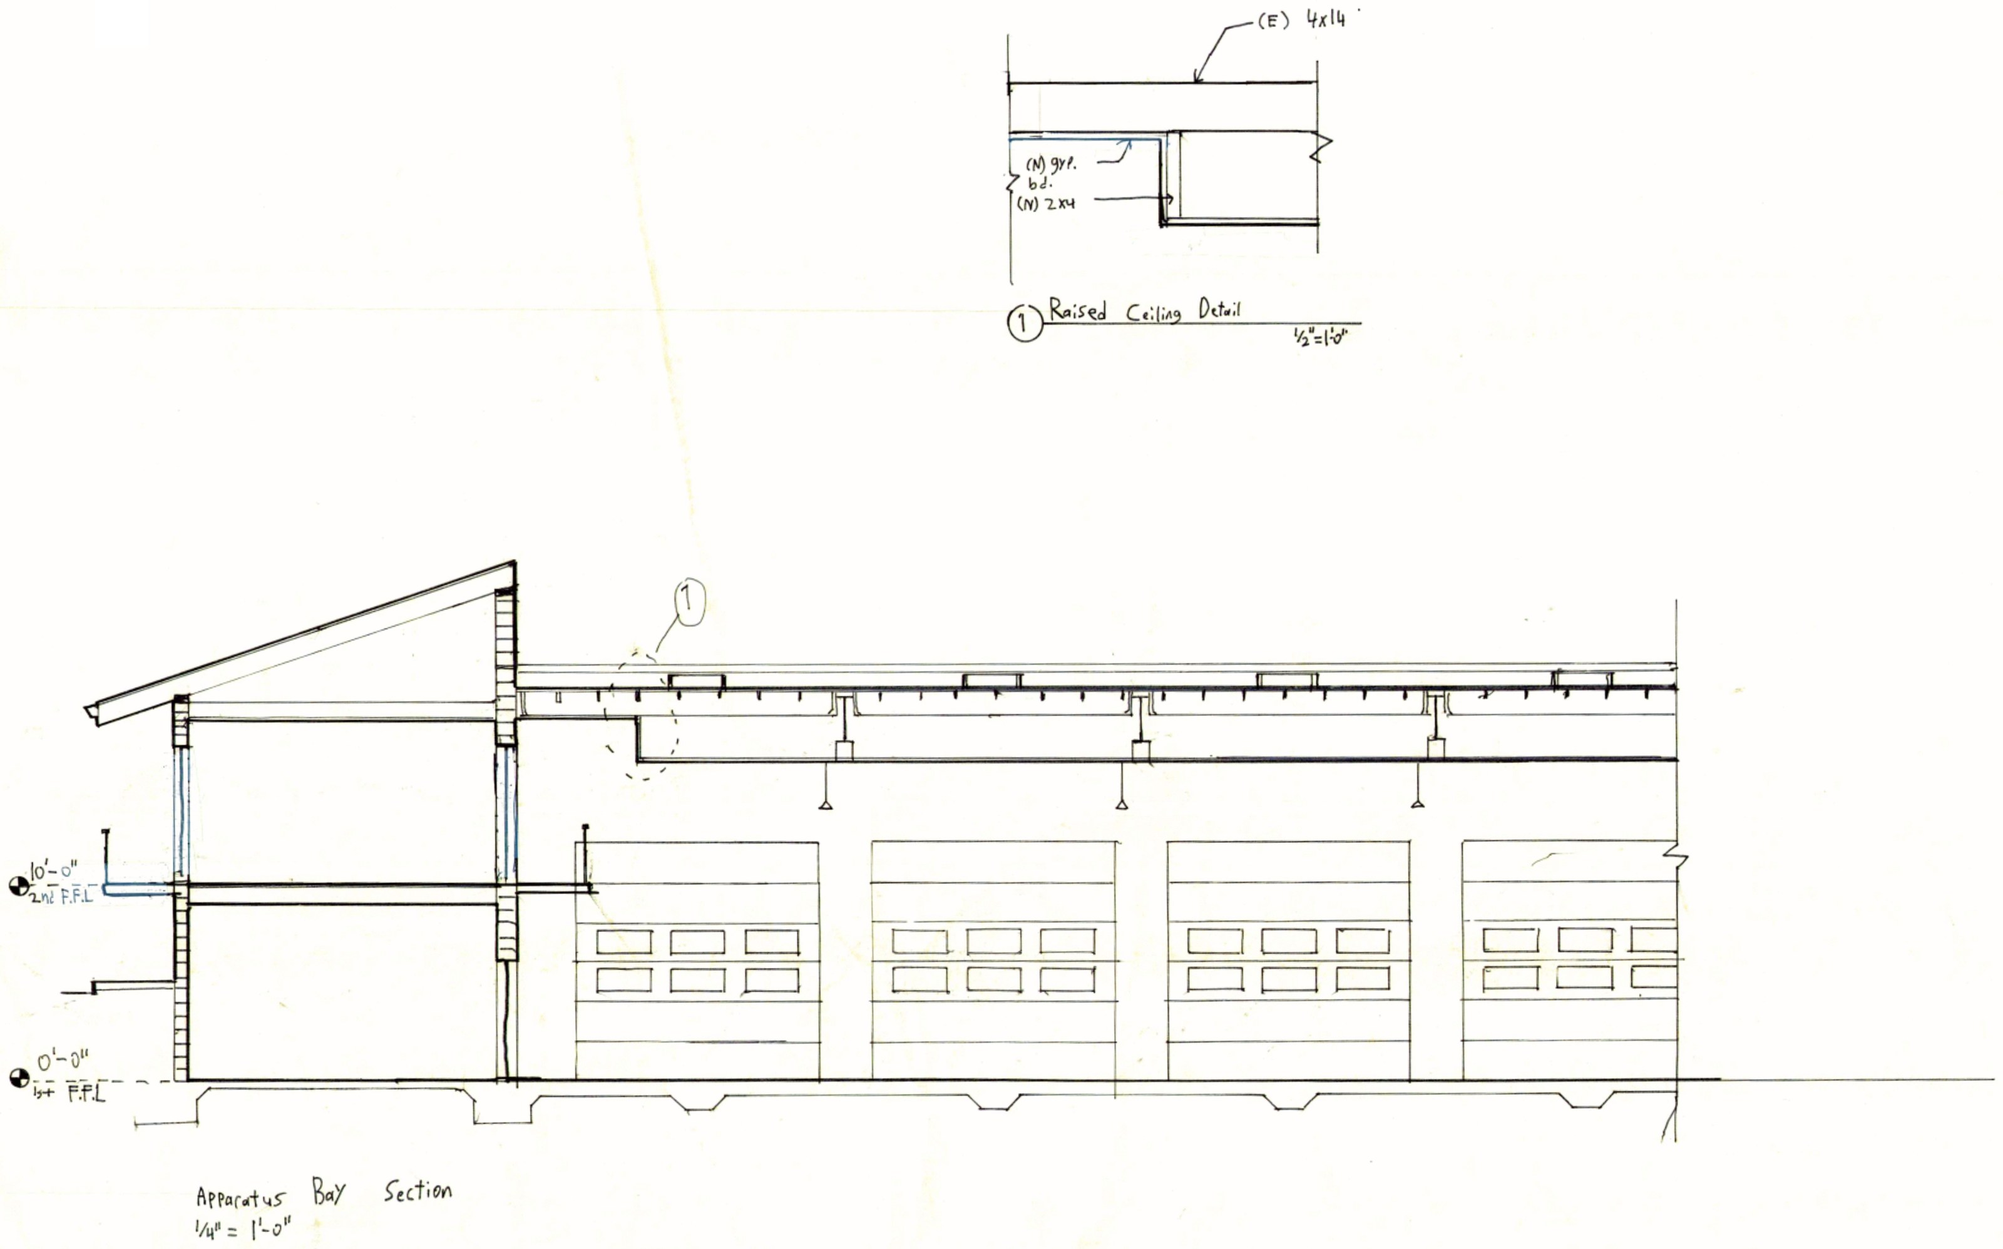
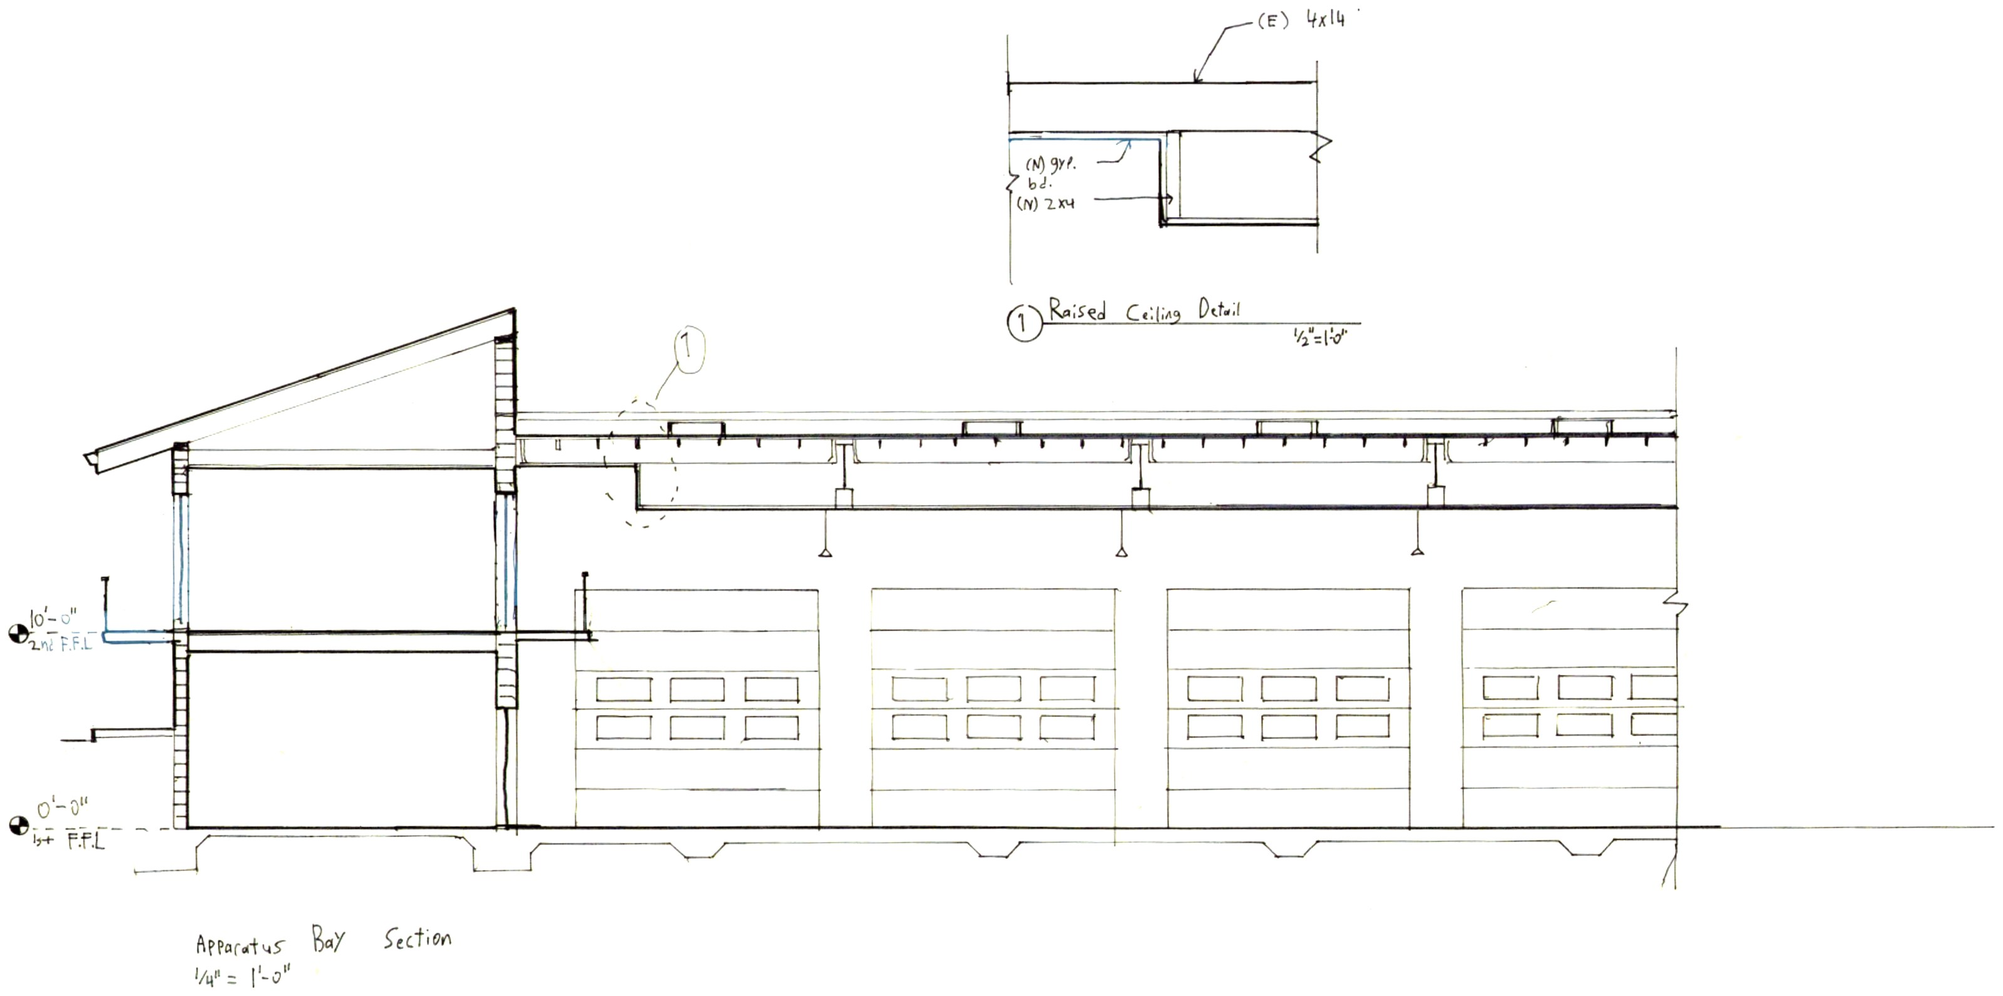
Station 1: site dev and M plans smaller, Tall Roof, interiors two rows per slide (kitchen its own carousel), A7.3 in two frames, tighter section sketch, details with a hover loupe (web) and whole-sheet pans (mobile), more room between drawing sets

diff --git a/js/projects.js b/js/projects.js
@@ -53,6 +53,11 @@
               row can take maxWidth: "930px" (desktop) so a small source is never blown up.
               row can take mobileRow: true to stay side by side on phones.
               A carousel can take arrowsOut: true (web) to fill the column, arrows in the margins.
+              A carousel can take loupe: true (web): a magnifier follows the pointer over the
+              drawing, for sheets too dense to read at page size (a click no longer turns it).
+              A pan can leave out follows: it then stands alone, swiped from one image to the next.
+              Carousels, pans and single images can take spaceBefore: true for extra room above
+              (a new set of drawings: plans, elevations, details).
               Any image can take mobileSrc: "x.jpg" (+ mobileRatio) to use a different file on phones.
               { divider: "Title", note: "..." } adds a section break (rule, subheading, rule)
               with an optional description under it.
@@ -73,7 +78,7 @@
 */
 
 // Bump whenever an image file is replaced under the same name, so browsers fetch the new one
-const IMAGE_VERSION = 36;
+const IMAGE_VERSION = 37;
 
 const CATEGORIES = [
   { id: "academic", label: "Academic", prefix: "A" },
@@ -500,7 +505,7 @@ const PROJECTS = [
         mobileSwipe: true,
         list: true,
         arrowsOut: true,
-        width: "95%", // a little smaller so it fits a 14" laptop screen
+        width: "81%", // smaller so it fits a 14" laptop screen
         images: [
           { src: "assets/img/projects/station-1/site-dev-west.jpg", ratio: 1.128, tab: "West" },
           { src: "assets/img/projects/station-1/site-dev-east.jpg", ratio: 1.128, tab: "East" },
@@ -521,21 +526,23 @@ const PROJECTS = [
       },
       {
         layout: "carousel", // all six sheets cut with one window on the grid lines, so walls stay put between slides
+        spaceBefore: true,
         mobileSwipe: true,
         list: true,
         arrowsOut: true,
-        width: "95%",
+        width: "76%",
         images: [
           { src: "assets/img/projects/station-1/m-plan-ground.jpg", ratio: 1.126, tab: "Ground Floor" },
           { src: "assets/img/projects/station-1/m-plan-second.jpg", ratio: 1.126, tab: "Second Floor" },
           { src: "assets/img/projects/station-1/m-ceiling-ground.jpg", ratio: 1.126, tab: "Ground Ceiling" },
           { src: "assets/img/projects/station-1/m-ceiling-second.jpg", ratio: 1.126, tab: "Second Ceiling" },
-          { src: "assets/img/projects/station-1/m-roof.jpg", ratio: 1.126, tab: "Roof" },
+          { src: "assets/img/projects/station-1/m-roof.jpg", ratio: 1.126, tab: "Tall Roof" },
           { src: "assets/img/projects/station-1/m-roof-flat.jpg", ratio: 1.126, tab: "Flat Roof" },
         ],
       },
       {
         layout: "carousel", // one elevation per slide at one scale, the F.F. 0 level line at the same height on every slide
+        spaceBefore: true,
         mobileSwipe: true,
         list: true,
         arrowsOut: true,
@@ -549,25 +556,43 @@ const PROJECTS = [
         ],
       },
       {
-        layout: "carousel", // interior elevations, one sheet per slide at one scale (the kitchen is drawn at twice the scale)
+        layout: "carousel", // interior elevations, two rows of a sheet per slide, all at one scale
+        spaceBefore: true,
         mobileSwipe: true,
         list: true,
         alignBottom: true,
         arrowsOut: true,
         images: [
-          { src: "assets/img/projects/station-1/m-int-day-lobby.jpg", ratio: 1.3502, tab: "Day Room & Lobby" },
-          { src: "assets/img/projects/station-1/m-int-admin.jpg", ratio: 1.3196, tab: "Admin" },
-          { src: "assets/img/projects/station-1/m-int-kitchen.jpg", ratio: 1.3468, tab: "Kitchen" },
-          { src: "assets/img/projects/station-1/m-int-second.jpg", ratio: 1.4134, tab: "Second Floor" },
-          { src: "assets/img/projects/station-1/m-int-dorm-bath.jpg", ratio: 1.3356, tab: "Dorms & Baths" },
+          { src: "assets/img/projects/station-1/m-int-dayroom.jpg", ratio: 2.7586, tab: "Day Room" },
+          { src: "assets/img/projects/station-1/m-int-lobby-hall.jpg", ratio: 2.8546, tab: "Lobby & Hall" },
+          { src: "assets/img/projects/station-1/m-int-training-hall.jpg", ratio: 2.6316, tab: "Training Room & Hall" },
+          { src: "assets/img/projects/station-1/m-int-offices.jpg", ratio: 2.8144, tab: "Offices & Copy" },
+          { src: "assets/img/projects/station-1/m-int-common.jpg", ratio: 2.6316, tab: "Common Room" },
+          { src: "assets/img/projects/station-1/m-int-hall-210.jpg", ratio: 3.3126, tab: "Upstairs Hall" },
+          { src: "assets/img/projects/station-1/m-int-dorm-bath-205.jpg", ratio: 2.6981, tab: "Dorm, Laundry & Bath" },
+          { src: "assets/img/projects/station-1/m-int-bath-217-toilet.jpg", ratio: 2.8571, tab: "Bath & Toilet" },
+        ],
+      },
+      {
+        layout: "carousel", // the kitchen's interior elevations (drawn at a larger scale), one row per slide
+        mobileSwipe: true,
+        list: true,
+        alignBottom: true,
+        arrowsOut: true,
+        images: [
+          { src: "assets/img/projects/station-1/m-int-kitchen-1.jpg", ratio: 3.3791, tab: "Kitchen: West & North" },
+          { src: "assets/img/projects/station-1/m-int-kitchen-2.jpg", ratio: 3.4115, tab: "Kitchen: East & South" },
+          { src: "assets/img/projects/station-1/m-int-kitchen-3.jpg", ratio: 3.4188, tab: "Kitchen: Island" },
         ],
       },
       {
         layout: "carousel", // A7.1 and A7.2 cut into columns of details that stack on one another, rows kept level
-        mobileSwipe: true,
+        spaceBefore: true,
+        hideOnMobile: true,
+        loupe: true,
         list: true,
         arrowsOut: true,
-        width: "55%",
+        width: "45%", // a whole column fits a 14" laptop screen; the loupe makes it readable
         images: [
           { src: "assets/img/projects/station-1/m-det-1.jpg", ratio: 0.6047, tab: "Details 1, 5, 9" },
           { src: "assets/img/projects/station-1/m-det-2.jpg", ratio: 0.6047, tab: "Details 2, 6" },
@@ -579,20 +604,38 @@ const PROJECTS = [
         ],
       },
       {
-        layout: "carousel", // A7.3: the balcony details and the training room exit (split in two), all at one scale
-        mobileSwipe: true,
+        layout: "pan", // mobile: each whole detail sheet, swiped across so the columns run on from one another
+        spaceBefore: true,
+        label: "Details",
+        zoom: 2.2,
+        images: [
+          { src: "assets/img/projects/station-1/m-det-sheet-1.jpg", ratio: 1.3508, caption: "Sheet 1 of 2" },
+          { src: "assets/img/projects/station-1/m-det-sheet-2.jpg", ratio: 1.3508, caption: "Sheet 2 of 2" },
+        ],
+      },
+      {
+        layout: "carousel", // A7.3: the two balcony details in one frame, the training room exit in another, one scale
+        hideOnMobile: true,
+        loupe: true,
         list: true,
         alignBottom: true,
         arrowsOut: true,
-        width: "60%",
+        width: "85%",
         images: [
-          { src: "assets/img/projects/station-1/m-add-7.jpg", ratio: 1.2432, tab: "Balcony Edge" },
-          { src: "assets/img/projects/station-1/m-add-8.jpg", ratio: 1.3021, tab: "Balcony at Wall" },
-          { src: "assets/img/projects/station-1/m-add-12a.jpg", ratio: 1.4854, tab: "Training Room Exit 1" },
-          { src: "assets/img/projects/station-1/m-add-12b.jpg", ratio: 1.5178, tab: "Training Room Exit 2" },
+          { src: "assets/img/projects/station-1/m-add-balcony.jpg", ratio: 2.0579, tab: "Balcony" },
+          { src: "assets/img/projects/station-1/m-add-exit.jpg", ratio: 2.454, tab: "Training Room Exit" },
         ],
       },
-      { src: "assets/img/projects/station-1/m-section-sketch.jpg" }, // hand section, rotated 1 degree so the slab line is level
+      {
+        layout: "pan", // mobile: the same two frames, swiped across
+        label: "Details",
+        zoom: 2,
+        images: [
+          { src: "assets/img/projects/station-1/m-add-balcony.jpg", ratio: 2.0579, caption: "Balcony" },
+          { src: "assets/img/projects/station-1/m-add-exit.jpg", ratio: 2.454, caption: "Training Room Exit" },
+        ],
+      },
+      { src: "assets/img/projects/station-1/m-section-sketch.jpg" }, // hand section, rotated 1 degree so the slab line is level; the raised ceiling detail moved down beside it
       { divider: "Building B" },
       {
         layout: "carousel", // early elevation sketches
@@ -608,6 +651,7 @@ const PROJECTS = [
       },
       {
         layout: "carousel", // one window on the grid lines (the porch part plan under it on A2.3 left out)
+        spaceBefore: true,
         mobileSwipe: true,
         list: true,
         arrowsOut: true,
@@ -620,6 +664,7 @@ const PROJECTS = [
       },
       {
         layout: "carousel", // same scale as Building M's elevations; the El. 236.25 level line at the same height on every slide
+        spaceBefore: true,
         mobileSwipe: true,
         list: true,
         arrowsOut: true,
@@ -633,23 +678,29 @@ const PROJECTS = [
         ],
       },
       {
-        layout: "carousel", // interior elevations, one sheet per slide at one scale
+        layout: "carousel", // interior elevations, up to two rows of a sheet per slide, all at one scale
+        spaceBefore: true,
         mobileSwipe: true,
         list: true,
         alignBottom: true,
         arrowsOut: true,
         images: [
-          { src: "assets/img/projects/station-1/b-int-exercise.jpg", ratio: 1.3617, tab: "Exercise" },
-          { src: "assets/img/projects/station-1/b-int-warehouse.jpg", ratio: 1.6495, tab: "Records & Storage" },
-          { src: "assets/img/projects/station-1/b-int-garage.jpg", ratio: 1.6503, tab: "Garage & Office" },
+          { src: "assets/img/projects/station-1/b-int-exercise-306.jpg", ratio: 2.6381, tab: "Exercise" },
+          { src: "assets/img/projects/station-1/b-int-sauna-bath.jpg", ratio: 2.8855, tab: "Sauna & Bathroom" },
+          { src: "assets/img/projects/station-1/b-int-records.jpg", ratio: 5.8182, tab: "Records" },
+          { src: "assets/img/projects/station-1/b-int-storage.jpg", ratio: 2.3392, tab: "Storage" },
+          { src: "assets/img/projects/station-1/b-int-garage-309.jpg", ratio: 2.1843, tab: "Garage" },
+          { src: "assets/img/projects/station-1/b-int-office-308.jpg", ratio: 6.6528, tab: "Office" },
         ],
       },
       {
         layout: "carousel", // A7.4 and A7.5 cut into columns, same as Building M's
-        mobileSwipe: true,
+        spaceBefore: true,
+        hideOnMobile: true,
+        loupe: true,
         list: true,
         arrowsOut: true,
-        width: "57.1%", // matches Building M's detail scale
+        width: "46.8%", // matches Building M's detail scale
         images: [
           { src: "assets/img/projects/station-1/b-det-1.jpg", ratio: 0.6284, tab: "Details 3, 5, 6, 8" },
           { src: "assets/img/projects/station-1/b-det-2.jpg", ratio: 0.6284, tab: "Details 1, 4, 9" },
@@ -657,6 +708,16 @@ const PROJECTS = [
           { src: "assets/img/projects/station-1/b-det-4.jpg", ratio: 0.6284, tab: "Details 1, 4, 7, 8, 11, 12" },
           { src: "assets/img/projects/station-1/b-det-5.jpg", ratio: 0.6284, tab: "Details 2, 9, 9a" },
           { src: "assets/img/projects/station-1/b-det-6.jpg", ratio: 0.6284, tab: "Details 3, 10, 15" },
+        ],
+      },
+      {
+        layout: "pan", // mobile: each whole detail sheet, swiped across
+        spaceBefore: true,
+        label: "Details",
+        zoom: 2.2,
+        images: [
+          { src: "assets/img/projects/station-1/b-det-sheet-1.jpg", ratio: 1.3508, caption: "Sheet 1 of 2" },
+          { src: "assets/img/projects/station-1/b-det-sheet-2.jpg", ratio: 1.3508, caption: "Sheet 2 of 2" },
         ],
       },
     ],

diff --git a/js/main.js b/js/main.js
@@ -346,13 +346,13 @@
         .join("");
       const names = block.images.map((img) => img.tab || img.caption);
       return `
-      <figure class="gallery-carousel${block.arrowsOut ? " is-arrows-out" : ""}${block.hideOnMobile ? " hide-mobile" : ""}${block.mobileOnly ? " mobile-only" : ""}${block.mobileSwipe ? " is-swipe" : ""}${block.alignBottom ? " is-bottom" : ""}"${block.id ? ` data-id="${block.id}"` : ""}${
+      <figure class="gallery-carousel${block.arrowsOut ? " is-arrows-out" : ""}${block.hideOnMobile ? " hide-mobile" : ""}${block.mobileOnly ? " mobile-only" : ""}${block.mobileSwipe ? " is-swipe" : ""}${block.alignBottom ? " is-bottom" : ""}${block.loupe ? " has-loupe" : ""}${block.spaceBefore ? " is-spaced" : ""}"${block.id ? ` data-id="${block.id}"` : ""}${
         block.list ? ` data-list="1"` : ""
       }${block.revealEarly ? ` data-early="${block.alignTo ?? 1}"` : ""}${block.mobileSwipe ? ` data-swipe="1"` : ""
       }${block.width || block.mobileSlide ? ` style="${block.width ? `--stage-w:${block.width};` : ""}${block.mobileSlide ? `--slide-w:${block.mobileSlide}` : ""}"` : ""} data-tabs="${escapeHTML(JSON.stringify(names))}">
         <div class="carousel-body">${arrow("prev")}<div class="carousel-stage">${slides}</div>${arrow("next")}</div>${
           block.mobileSwipe ? `<div class="carousel-dots" aria-hidden="true">${block.images.map(() => "<span></span>").join("")}</div>` : ""
-        }
+        }${block.loupe ? `<p class="loupe-hint">Hover to enlarge</p>` : ""}
       </figure>`;
     };
 
@@ -362,7 +362,7 @@
         if (block.layout === "carousel") return carouselHTML(block);
         // pan (mobile): one image at a time, enlarged, swiped sideways; follows the carousel named in follows
         if (block.layout === "pan")
-          return `<figure class="gallery-pan mobile-only" data-follows="${block.follows}" style="--zoom:${block.zoom || 2.5};--pan-ratio:${Math.min(...block.images.map((img) => img.ratio))}"><div class="pan-view">${block.images
+          return `<figure class="gallery-pan mobile-only${block.spaceBefore ? " is-spaced" : ""}" data-follows="${block.follows || ""}" style="--zoom:${block.zoom || 2.5};--pan-ratio:${Math.min(...block.images.map((img) => img.ratio))}"><div class="pan-view">${block.images
             .map((img, i) => `<img class="pan-img${i ? "" : " is-active"}" src="${asset(img.src)}" alt="${escapeHTML(img.caption || p.title)}" loading="lazy" data-caption="${escapeHTML(img.caption || "")}" style="aspect-ratio:${img.ratio}">`)
             .join("")}</div><figcaption>${escapeHTML(block.label || "Enlarged")}: <span class="pan-name">${escapeHTML(block.images[0].caption || "")}</span>. Swipe to see the rest; keep swiping at the end for the next view</figcaption></figure>`;
         if (block.divider)
@@ -380,7 +380,7 @@
 
         if (!block.layout) {
           // besideText: on desktop a crop of this image sits beside the description instead
-          const cls = [block.nativeWidth && "is-native", block.hideOnMobile && "hide-mobile", (block.mobileOnly || block.besideText) && "mobile-only"].filter(Boolean);
+          const cls = [block.nativeWidth && "is-native", block.hideOnMobile && "hide-mobile", (block.mobileOnly || block.besideText) && "mobile-only", block.spaceBefore && "is-spaced"].filter(Boolean);
           const attrs = (cls.length ? ` class="${cls.join(" ")}"` : "") + (block.nativeWidth ? ` style="--native-w:${block.nativeWidth}px"` : "");
           return `<figure${attrs}>${image(block)}${caption(block.caption, block.note, block.captionInset)}${list}</figure>`;
         }
@@ -492,7 +492,8 @@
         })
       );
       carousel.querySelectorAll(".carousel-arrow").forEach((a) => a.addEventListener("click", () => show(current + +a.dataset.step)));
-      stage.addEventListener("click", () => show(current + 1));
+      // (a magnified carousel is read by hovering, so a click there doesn't turn the page)
+      if (!carousel.classList.contains("has-loupe")) stage.addEventListener("click", () => show(current + 1));
 
       // Appears level with the top of the plan, slides to the plan's middle by the time the
       // plan is centred on screen, then holds there until the menu reaches it.
@@ -625,6 +626,29 @@
         else settle();
       });
     });
+
+    // loupe (desktop): a round magnifier follows the pointer over the drawing in view,
+    // showing the image at its full resolution, for sheets too dense to read at page size
+    const loupe = document.createElement("div");
+    loupe.className = "loupe";
+    document.body.appendChild(loupe);
+    root.querySelectorAll(".gallery-carousel.has-loupe .carousel-stage").forEach((stage) => {
+      const move = (e) => {
+        const img = e.target.closest(".carousel-slide.is-active img");
+        if (!img || !matchMedia("(min-width: 761px)").matches) return loupe.classList.remove("is-visible");
+        const r = img.getBoundingClientRect();
+        const zoom = Math.min(4, Math.max(2, img.naturalWidth / r.width)); // 4x: notes readable, still some context
+        const half = loupe.offsetWidth / 2;
+        loupe.style.backgroundImage = `url("${img.currentSrc || img.src}")`;
+        loupe.style.backgroundSize = `${r.width * zoom}px ${r.height * zoom}px`;
+        loupe.style.backgroundPosition = `${half - (e.clientX - r.left) * zoom}px ${half - (e.clientY - r.top) * zoom}px`;
+        loupe.style.transform = `translate(${e.clientX - half}px, ${e.clientY - half}px)`;
+        loupe.classList.add("is-visible");
+      };
+      stage.addEventListener("mousemove", move);
+      stage.addEventListener("mouseleave", () => loupe.classList.remove("is-visible"));
+    });
+    window.addEventListener("scroll", () => loupe.classList.remove("is-visible"), { passive: true });
 
     // desktop: clicking a linked plan opens that level in its carousel and brings it into view
     root.querySelectorAll("[data-carousel]").forEach((el) =>

diff --git a/css/style.css b/css/style.css
@@ -670,6 +670,44 @@ html.menu-entering .layout > :not(.menu) {
   display: block;
 }
 
+/* spaceBefore: extra room above a new set of drawings (plans, elevations, details) */
+.gallery .is-spaced {
+  margin-top: clamp(32px, 4.5vw, 72px);
+}
+
+/* loupe (desktop): a round magnifier that follows the pointer over a dense drawing */
+.loupe {
+  position: fixed;
+  top: 0;
+  left: 0;
+  z-index: 50;
+  width: 360px;
+  height: 360px;
+  border-radius: 50%;
+  background-color: var(--paper);
+  background-repeat: no-repeat;
+  box-shadow: 0 0 0 1px var(--faint), 0 6px 24px rgba(0, 0, 0, 0.18);
+  pointer-events: none;
+  opacity: 0;
+  transition: opacity 0.15s;
+}
+
+.loupe.is-visible {
+  opacity: 1;
+}
+
+.has-loupe .carousel-stage {
+  cursor: none;
+}
+
+.loupe-hint {
+  margin: 6px 0 0;
+  text-align: center;
+  font-size: 0.72rem;
+  letter-spacing: 0.06em;
+  color: var(--mute);
+}
+
 /* place: images at set offsets and widths, tops aligned */
 .gallery-place .gallery-group {
   display: flex;
@@ -1001,6 +1039,15 @@ picture {
   }
 
   .hide-mobile {
+    display: none;
+  }
+
+  .gallery .is-spaced {
+    margin-top: 16px;
+  }
+
+  .loupe,
+  .loupe-hint {
     display: none;
   }
 

diff --git a/project.html b/project.html
@@ -29,7 +29,7 @@
   <link rel="icon" href="assets/img/favicon.svg" type="image/svg+xml">
   <link rel="icon" href="assets/img/favicon-32.png" sizes="32x32" type="image/png">
   <link rel="apple-touch-icon" href="assets/img/apple-touch-icon.png">
-  <link rel="stylesheet" href="css/style.css?v=90">
+  <link rel="stylesheet" href="css/style.css?v=91">
 </head>
 <body data-page="project">
 
@@ -52,7 +52,7 @@
     <article class="project" id="project"></article>
   </main>
 
-  <script src="js/projects.js?v=93"></script>
-  <script src="js/main.js?v=90"></script>
+  <script src="js/projects.js?v=94"></script>
+  <script src="js/main.js?v=91"></script>
 </body>
 </html>

diff --git a/index.html b/index.html
@@ -34,7 +34,7 @@
   <link rel="preconnect" href="https://fonts.googleapis.com">
   <link rel="preconnect" href="https://fonts.gstatic.com" crossorigin>
   <link rel="stylesheet" href="https://fonts.googleapis.com/css2?family=Inter:wght@400;700&display=swap">
-  <link rel="stylesheet" href="css/style.css?v=90">
+  <link rel="stylesheet" href="css/style.css?v=91">
 </head>
 <body data-page="index">
 
@@ -161,7 +161,7 @@
     </div>
   </main>
 
-  <script src="js/projects.js?v=93"></script>
-  <script src="js/main.js?v=90"></script>
+  <script src="js/projects.js?v=94"></script>
+  <script src="js/main.js?v=91"></script>
 </body>
 </html>
